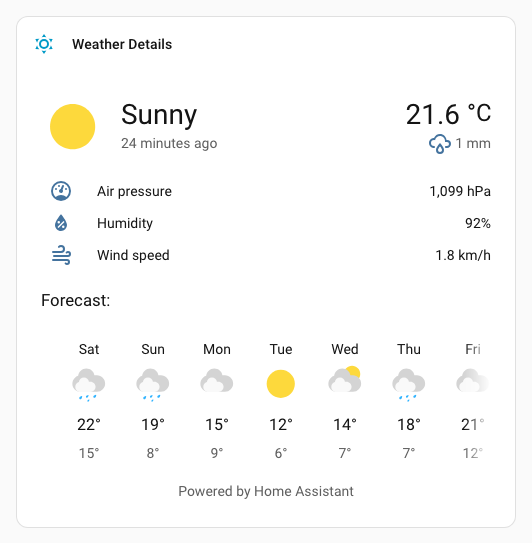
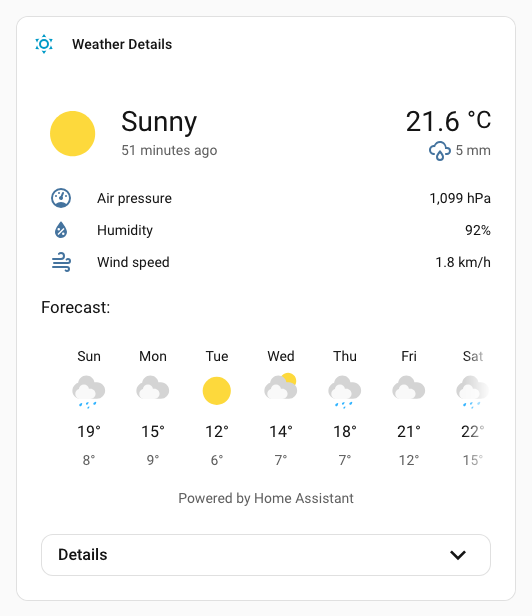
Update styling of details wrapper when `info: false` is in use. Update shortcut example to use vertical stack.

diff --git a/src/forge/sparks/uix-spark-more-info.ts b/src/forge/sparks/uix-spark-more-info.ts
@@ -58,6 +58,9 @@ const MORE_INFO_CSS = `
   .uix-forge-more-info-details-head ha-icon {
     display: flex;
   }
+  div.uix-forge-more-info-details-wrap[no-info] {
+    padding: var(--uix-more-info-details-no-info-outer-padding, var(--ha-space-6, 24px));
+  }
   .uix-forge-more-info-details-wrap {
     padding: var(--uix-more-info-details-outer-padding, 0 var(--ha-space-6, 24px) var(--ha-space-6, 24px));
   }
@@ -376,15 +379,20 @@ export class UixForgeSparkMoreInfo extends UixForgeSparkBase {
   }
 
   private _updateDetails(wrapperEl: HTMLElement) {
-    const detailsEl = wrapperEl.querySelector(
-      ":scope > .uix-forge-more-info-details-wrap > .uix-forge-more-info-details"
-    ) as HTMLElement | null;
+    const detailsWrapEl = wrapperEl.querySelector(":scope > .uix-forge-more-info-details-wrap") as HTMLElement | null;
+    const detailsEl = detailsWrapEl?.querySelector(":scope > .uix-forge-more-info-details") as HTMLElement | null;
     const headEl = detailsEl?.querySelector(":scope > .uix-forge-more-info-details-head") as HTMLElement | null;
     const yamlButton = headEl?.querySelector(":scope > .uix-forge-more-info-yaml-toggle") as HTMLElement | null;
     const toggleButton = headEl?.querySelector(":scope > .uix-forge-more-info-details-toggle") as HTMLElement | null;
     const contentEl = detailsEl?.querySelector(":scope > .uix-forge-more-info-details-content") as HTMLElement | null;
     const detailsContent = contentEl?.querySelector(":scope > ha-more-info-details") as MoreInfoDetailsElement | null;
-    if (!detailsEl || !detailsContent) return;
+    if (!detailsWrapEl || !detailsEl || !detailsContent) return;
+
+    if (!this.info) {
+      detailsWrapEl?.setAttribute("no-info", "true");
+    } else {
+      detailsWrapEl?.removeAttribute("no-info");
+    } 
 
     detailsEl.classList.toggle("expanded", this._detailsOpen);
     contentEl?.setAttribute("aria-hidden", this._detailsOpen ? "false" : "true");

diff --git a/docs/source/forge/sparks/more-info.md b/docs/source/forge/sparks/more-info.md
@@ -98,6 +98,7 @@ my-theme:
 | `--uix-more-info-details-head-padding` | `0 var(--ha-space-4, 16px)` | Padding for the details toggle row. |
 | `--uix-more-info-details-head-gap` | `var(--ha-space-2, 8px)` | Gap between details action buttons. |
 | `--uix-more-info-details-outer-padding` | `0 var(--ha-space-6, 24px) var(--ha-space-6, 24px)` | Padding around the outside of the details card. |
+| `--uix-more-info-details-no-info-outer-padding` | `var(--ha-space-6, 24px)` | Padding around the outside of the details card when info is not show shown (`info: false`). As the details is shown in isolation to info above, top padding is present. |
 | `--uix-more-info-details-toggle-width` | `32px` | Size of the details action icon buttons. |
 | `--uix-more-info-details-transition-duration` | `350ms` | Transition duration for the details dropdown, toggle icon, and YAML button fade. |
 | `--uix-more-info-details-toggle-color` | `var(--primary-text-color)` | Details action button color. |
@@ -160,30 +161,61 @@ my-theme:
 
 ## Using with standard cards
 
-All the examples above are using the UIX Forge blank card. You can also use with other cards.
+All the examples above are using the UIX Forge blank card. Due to the nature of the more-info spark and its content it is best to always use a UIX forge blank card in a stack of cards.
 
-!!! tip
-    For `after` for standard Home Assistant cards, search for the main container in shadowRoot of element contained within `<ha-card>`. For example, shortcut card has `div.container` in shadowRoot of  `<ha-tile-container>` within `<ha-card>`.
+Example using a shortcut card in a stack, using UIX Styling to hide borders of cards in stack and then giving regular `ha-card` type styling to the vertical stack.
 
-### Using with shortcut card
+### Using with title card in vertical stack
 
 ```yaml
-type: custom:uix-forge
-forge:
-  mold: card
-  sparks:
-    - type: more-info
-      after: hui-shortcut-card $ ha-tile-container $ div.container
-      entity: weather.demo_weather_south
-  grid_options:
-    columns: full
-element:
-  type: shortcut
-  icon: mdi:weather-sunny
-  label: Weather Details
-  tap_action:
-    action: navigate
-    navigation_path: /weather-details
+type: vertical-stack
+cards:
+  - type: shortcut
+    label: Weather Details
+    icon: mdi:weather-sunny
+    tap_action:
+      action: navigate
+      navigation_path: /weather-details
+    uix:
+      style: |
+        ha-card {
+          border-width: 0;
+        }
+  - type: custom:uix-forge
+    forge:
+      mold: card
+      sparks:
+        - type: more-info
+          entity: weather.carlingford
+          details: true
+      grid_options:
+        columns: full
+    element:
+      uix:
+        style: |
+          ha-card:has(.uix-forge-more-info) {
+            border-width: 0px;
+          }
+uix:
+  style: |
+    :host {
+      background: var(
+        --ha-card-background,
+        var(--card-background-color, white)
+      );
+      -webkit-backdrop-filter: var(--ha-card-backdrop-filter, none);
+      backdrop-filter: var(--ha-card-backdrop-filter, none);
+      box-shadow: var(--ha-card-box-shadow, none);
+      box-sizing: border-box;
+      border-radius: var(--ha-card-border-radius, var(--ha-border-radius-lg));
+      border-width: var(--ha-card-border-width, 1px);
+      border-style: solid;
+      border-color: var(--ha-card-border-color, var(--divider-color, #e0e0e0));
+      color: var(--primary-text-color);
+      display: block;
+      transition: all 0.3s ease-out;
+      position: relative;
+    }
 ```
 
 ![Forge spark more-info applied to shortcut card](../../assets/page-assets/forge/sparks/more-info-shortcut-card.png)
